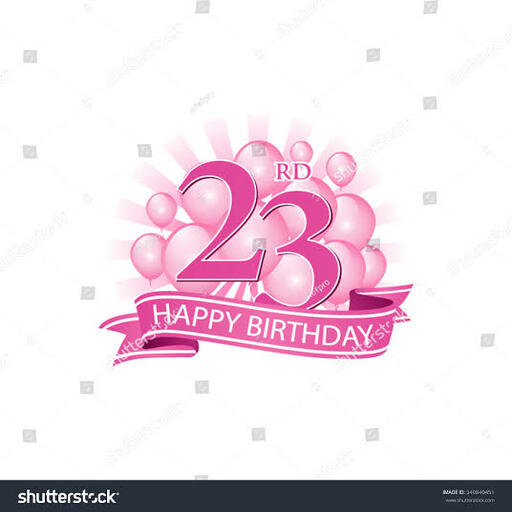
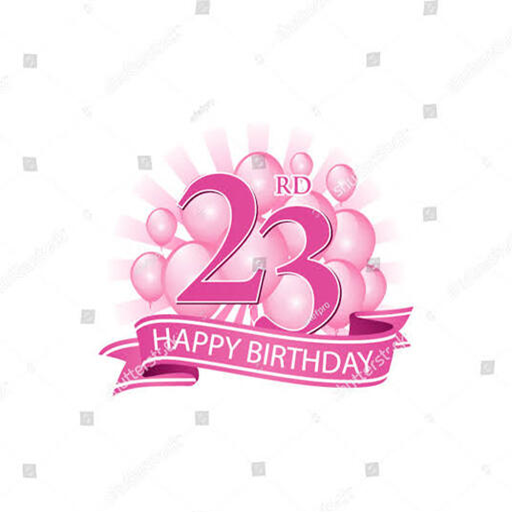
final

diff --git a/src/pages/Secondpage.tsx b/src/pages/Secondpage.tsx
@@ -135,7 +135,7 @@ const Secondpage = () => {
           onClick={() => Resetans()}
           className="px-4 py-2 bg-red-500 text-white w-[60%] rounded-[10px] ml-3 text-lg font-bold"
         >
-          Reset all answer! 🥺💓
+          Reset all answer! 🥺
         </button>
       </div>
       {selectedanswers.length === 10 && (